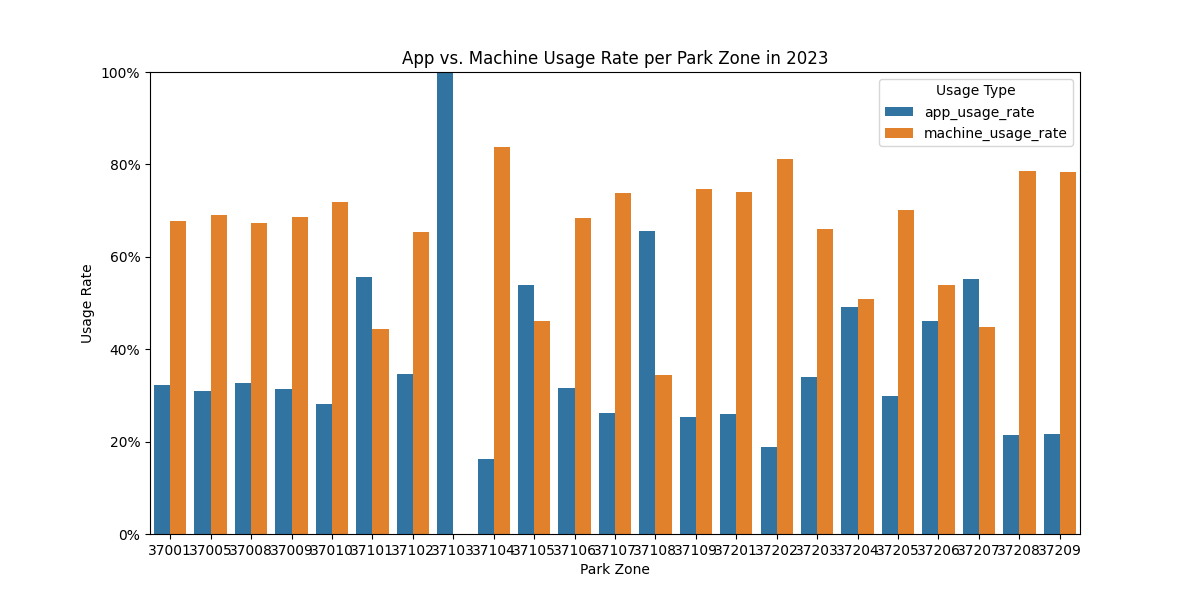
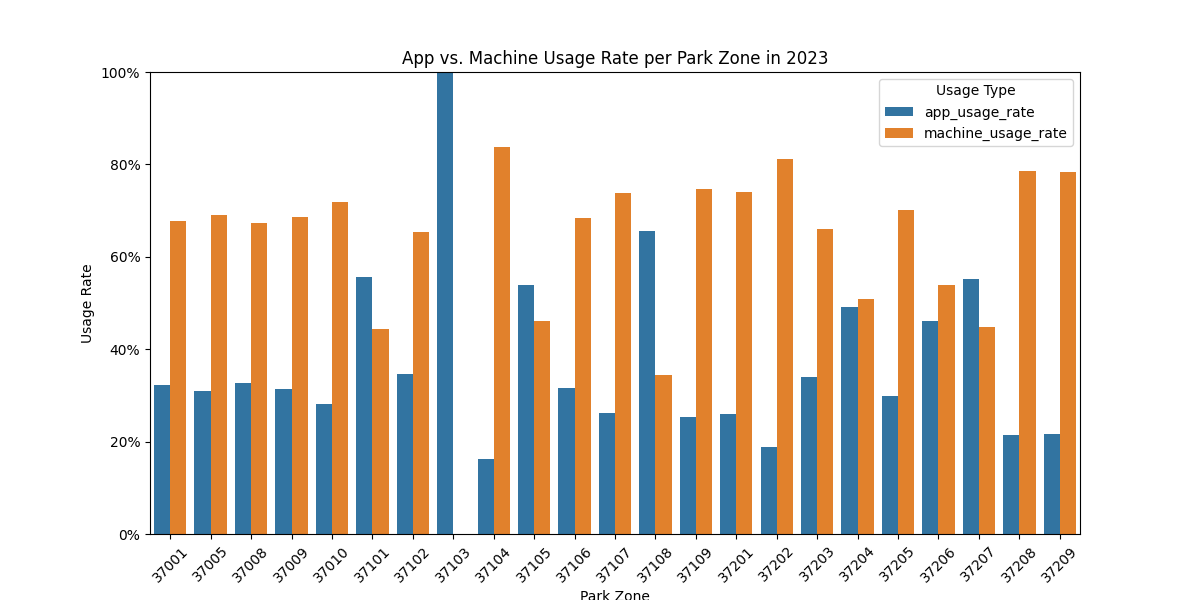
--wip--

Changed region(s): [[0.1233, 0.9, 0.8942, 1.0]]

diff --git a/ss24/ds1-ss24/exam/e2.py b/ss24/ds1-ss24/exam/e2.py
@@ -151,7 +151,6 @@ def main():
 
     df = df.reset_index()
 
-    print(df.to_markdown())
     df.info()
     # df.to_csv("df.csv")
 
@@ -171,6 +170,7 @@ def main():
     plt.xlabel("Park Zone")
     plt.ylabel("Usage Rate")
     plt.title("App vs. Machine Usage Rate per Park Zone in 2023")
+    plt.xticks(rotation=45)
     plt.legend(title="Usage Type")
 
     plt.gca().yaxis.set_major_formatter(mticker.PercentFormatter(1.0))
@@ -179,18 +179,26 @@ def main():
     plt.savefig("out/2.2.1.png")
 
     # 2.2.2
-    df_melted = df.melt(id_vars=["zone"], value_vars=["total_transactions", "transactions_machine"], var_name="variable", value_name="value")
+    df_melted = df.melt(
+        id_vars=["zone"],
+        value_vars=["total_transactions", "transactions_machine"],
+        var_name="variable",
+        value_name="value",
+    )
 
     plt.figure(figsize=(10, 6))
     sns.barplot(x="zone", y="value", hue="variable", data=df_melted)
 
-    plt.yscale('log')
+    plt.yscale("log")
 
-    plt.title('Total Transactions vs Machine Transactions per Zone (Log Scale)')
-    plt.xlabel('Zone')
-    plt.ylabel('Transactions')
+    plt.title("Total Transactions vs Machine Transactions per Zone (Log Scale)")
+    plt.xlabel("Zone")
+    plt.ylabel("Transactions")
+
+    plt.xticks(rotation=45)
 
     plt.savefig("out/2.2.2.png")
+
 
 if __name__ == "__main__":
     main()
